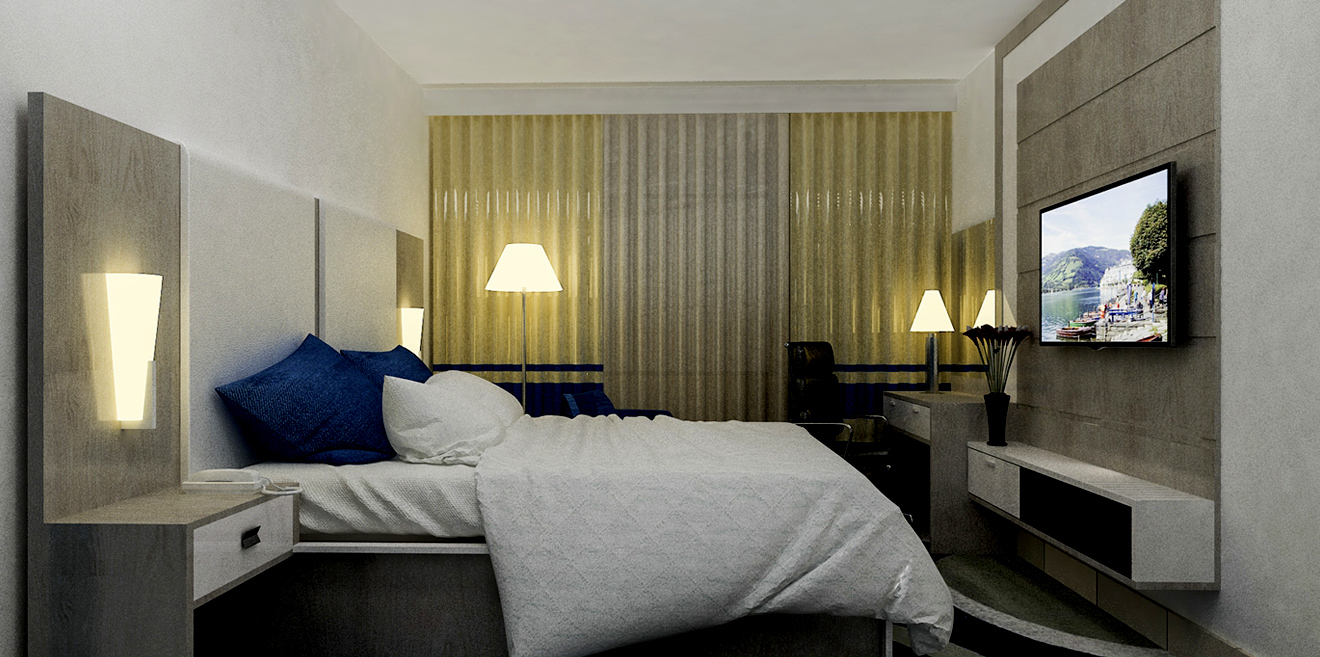
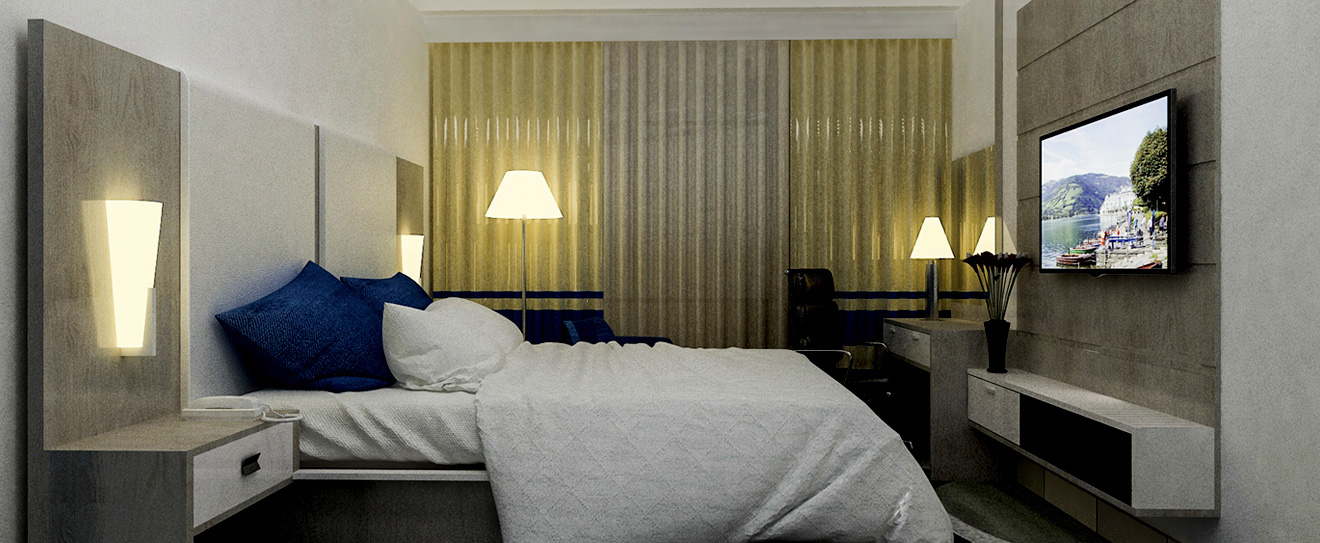
optimised slider images

diff --git a/index.html b/index.html
@@ -150,6 +150,7 @@
             	
             
           </div>
+        <!-- 
           <a href="#!"
              target="_self"
              class="ms-layer msp-cn-163-4 ms-btn ms-btn-circle ms-btn-n msp-preset-btn-192"
@@ -163,6 +164,9 @@
              data-offset-y="450"
              data-origin="tl"
              data-position="normal">Read More</a>
+             -->
+             
+             
         </div>
        
            <div class="ms-slide border-shader" data-delay="5.6" data-fill-mode="fill">
@@ -219,6 +223,8 @@
                 FIRM IN AFRICA
             
           </div>
+          
+          <!--
           <a href="#!"
              target="_self"
              class="ms-layer msp-cn-163-4 ms-btn ms-btn-circle ms-btn-n msp-preset-btn-192"
@@ -232,6 +238,7 @@
              data-offset-y="450"
              data-origin="tl"
              data-position="normal">Read More</a>
+             -->
         </div>
      
      
@@ -500,7 +507,7 @@
     });
     slider.setup("masterslider", {
       width: 1366,
-      height: 608,
+      height: 508,
       minHeight: 0,
       space: 0,
       start: 1,
@@ -508,7 +515,7 @@
       swipe: false,
       mouse: false,
       keyboard: false,
-      layout: "fullscreen",
+      layout: "autofill",
       wheel: false,
       autoplay: true,
       instantStartLayers: true,

diff --git a/assets/css/style.css b/assets/css/style.css
@@ -54,7 +54,7 @@
     line-height: normal;
     color: #ffffff;
     text-align: left;
-    background: #000000c9;
+    background: hsla(0, 0%, 0%, 0.79);
     padding: 15px !important;
     width: 90% !important;
 
